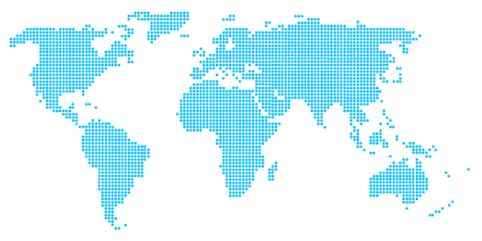
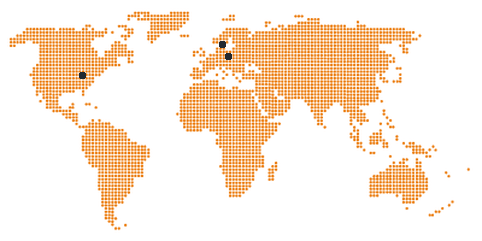
added collaboration map

diff --git a/pages/collaboration.html b/pages/collaboration.html
@@ -1,10 +1,11 @@
 ---
 title: Collaboration
 permalink: /collaboration/
-
 ---
-<!-- image: assets/images/collaboration_map.png -->
 <section>
+    <div class="text-center">
+        <image src="/assets/images/collaboration_map.png"></image>
+    </div>
     <h2>Collaboration</h2>
     <p>There are 4 scientific institutions collaborating with the Project manager, namely: <b>University of Louisville</b> (USA), <b>Chalmers University of Technology</b> (Sweden), <b>Warsaw University of Technology</b> (Poland) and the <b>Institute of Electronic Materials Technology</b> (Poland). Six highly qualified scientific Mentors will closely collaborate with the project manager and students to ensure the success of this project. The Mentors were chosen based on their high experience and knowledge on particular subjects covered by this project and will provide guidance for all team members. Mentors are assigned to most of the project subsections to ensure merit and result quality during the proposed research. Team members will have the chance to spend a few months at partner institutions, using the high-quality resources they have available.</p>
 </section>
